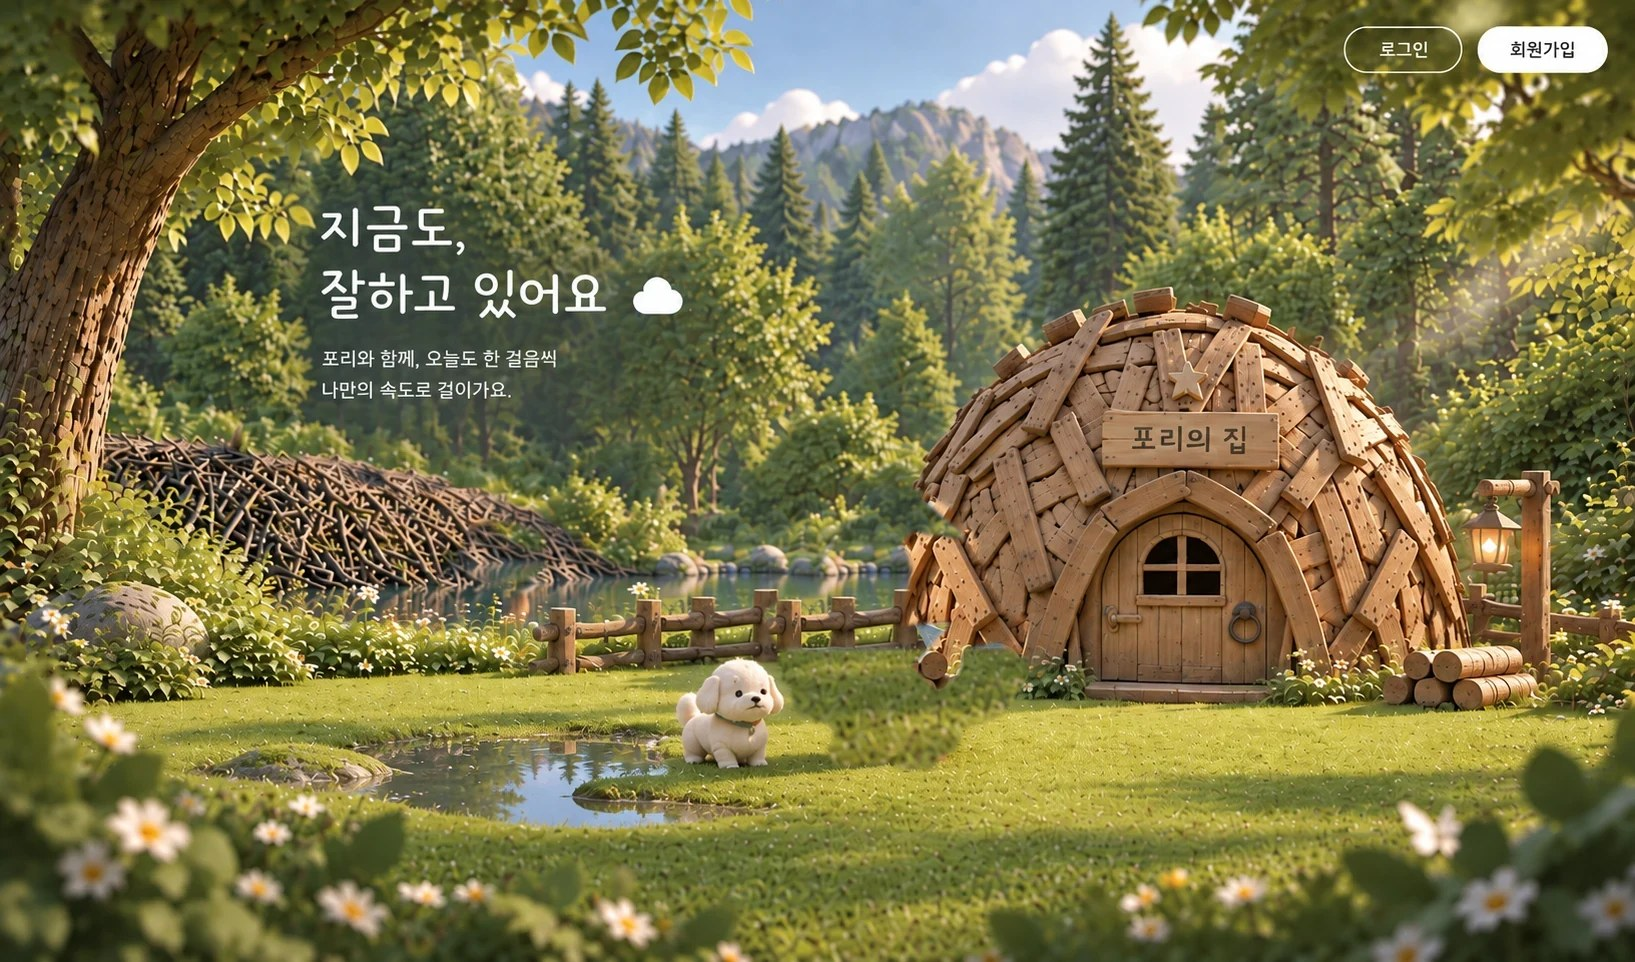
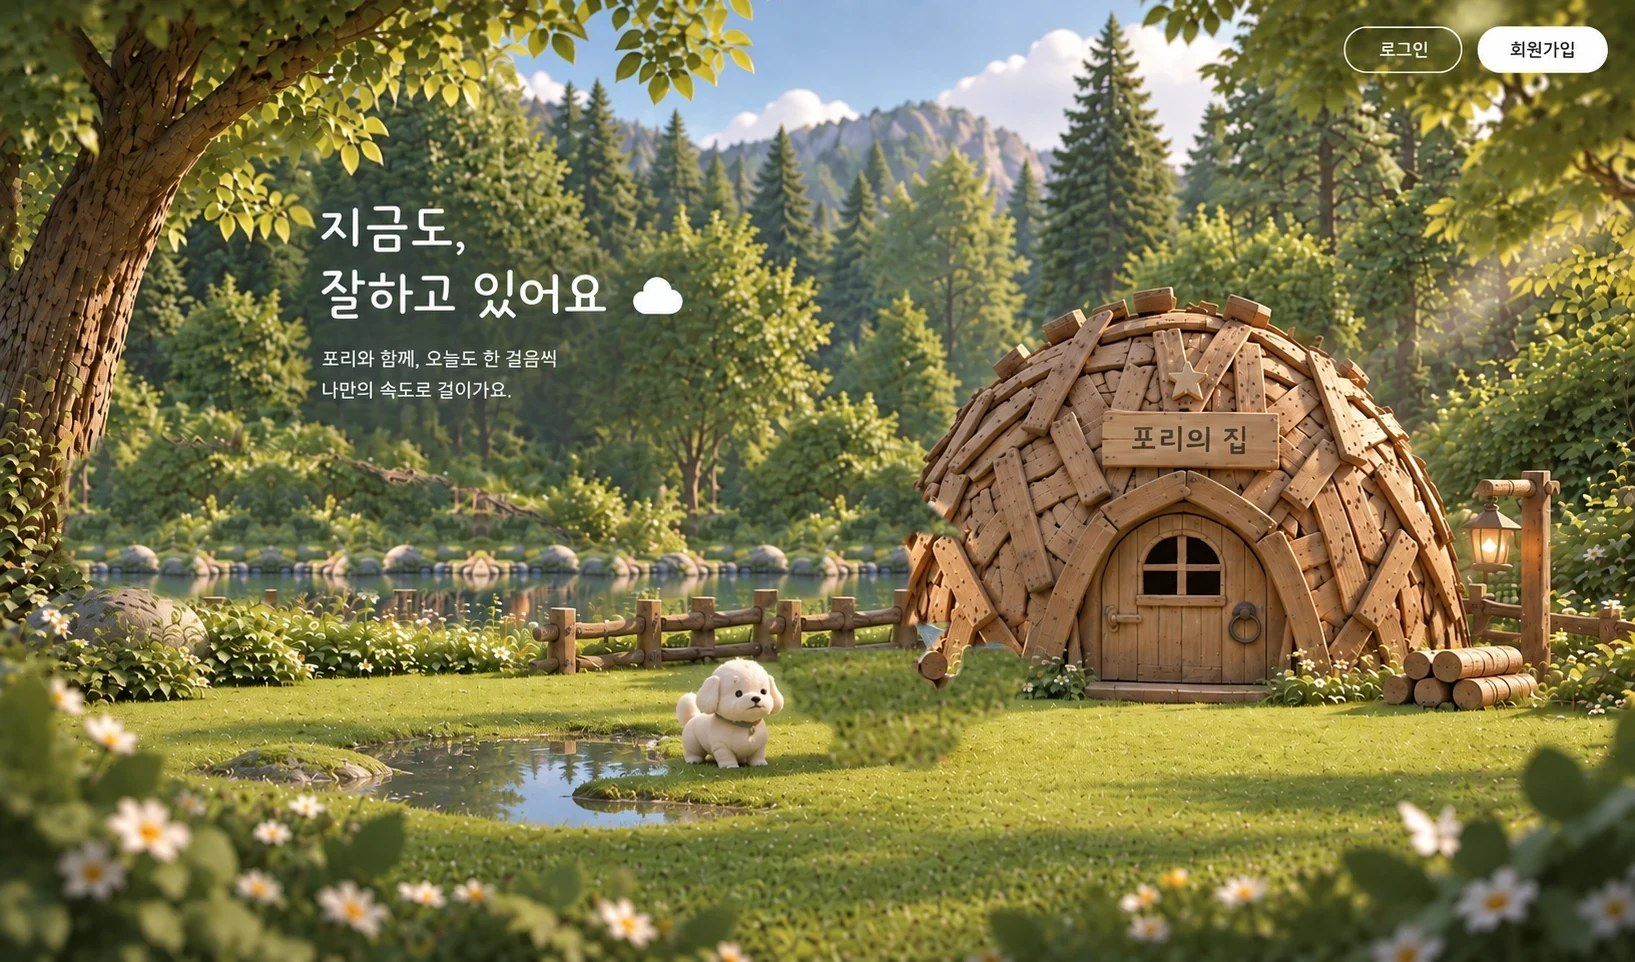
feat: 댐을 상태에 따라 바꾼다 — 목표를 정하면 나뭇가지 더미가 댐이 된다
목표를 정하기 전에는 나뭇가지 더미, 정하고 나면 댐이 완성돼 있다.
계획이 서면 댐이 지어진다는 이야기가 화면에 그대로 드러난다.

  body[data-goal="n"] → dam_branch.png
  body[data-goal="y"] → dam_built.png

data-goal 은 이미 메인 스크립트가 세팅하고 있어 따로 붙일 것이 없었다.
핫스팟 실루엣과 비버 자리도 상태마다 다시 잡는다 — 댐 모양이 달라지면
클릭 범위도 달라지고, 비버가 능선 밖에 떠 있게 된다.

배경
  두 댐을 갈아끼우려면 3D 댐을 배경에서 지워야 한다. 세로 보간으로 메웠더니
  세로 얼룩이 남았다. 대신 댐 오른쪽의 깨끗한 물가(x 690~900)를 거울
  타일링해 댐 폭만큼 이어 붙였다. 바위가 반복되는 티는 있으나 물가가
  자연스럽게 이어진다.

자리
  처음에는 원래 댐 자리(left 5.4%)에 뒀는데 두 가지가 문제였다.
   · 무대가 오른쪽 정렬이라 화면이 좁으면 왼쪽이 잘린다 — 댐이 잘려 나갔다
   · 바닥을 63~64.5% 에 뒀더니 물가가 아니라 잔디 위에 얹혀 보였다
  left 7.5%, 바닥 61.5% 로 옮겨 물가에 앉혔다. 높이는 배경에 구워진
  부제 텍스트(y 33~41%)를 넘지 않도록 잡았다.

에셋
  나무 댐.svg 8.4MB(1,628패스) → 70KB, 댐.svg 1.8MB(201패스) → 17KB.
  둘 다 VTracer 로 비트맵을 추적한 것이라 벡터의 이점이 없다.

호버
  댐이 배경 그림에 없으므로 강조를 이 레이어에 건다. 핫스팟 자신의
  '배경 밝히기'는 끈다 — 켜두면 댐 없는 배경만 밝아진다.

Changed region(s): [[0.0312, 0.4366, 0.4055, 0.6549]]

diff --git a/public/css/scene.css b/public/css/scene.css
@@ -109,14 +109,6 @@ body.show-map .label{opacity:1;transform:translateY(0)}
 /* 카피 블록 — 제목 두 줄 + 설명 두 줄. 설명이 더 짧아 ㄱ자다 */
 .h-copy   {clip-path:polygon(18.8% 19.5%, 44.5% 19.5%, 44.5% 32%, 36% 32%, 36% 41.5%, 18.8% 41.5%)}
 
-/* 댐 — 나뭇가지 더미 */
-.h-dam   {clip-path:polygon(4.59% 48.65%, 4.22% 56.55%, 6.24% 60.50%, 8.38% 60.29%, 11.01% 62.16%, 15.35%
-             61.64%, 17.13% 62.37%, 19.02% 60.29%, 20.06% 61.23%, 20.67% 60.40%,
-             22.81% 61.12%, 35.05% 60.08%, 38.65% 61.02%, 40.61% 59.67%, 38.96%
-             58.21%, 34.19% 56.86%, 32.48% 54.26%, 30.52% 54.78%, 28.93% 52.18%,
-             26.61% 50.52%, 23.73% 51.14%, 21.22% 48.54%, 18.96% 48.44%, 17.80%
-             47.19%, 17.19% 47.82%, 11.13% 46.88%, 8.44% 45.32%, 6.36% 46.15%, 5.87%
-             47.92%)}
 /* 물웅덩이 */
 .h-puddle{clip-path:polygon(22.75% 82.12%, 23.36% 83.16%, 24.22% 82.74%, 25.32% 83.99%, 28.75% 84.51%, 30.89%
              85.55%, 38.84% 85.65%, 39.20% 85.03%, 38.90% 84.30%, 36.94% 84.51%,
@@ -230,9 +222,9 @@ body.show-map .label{opacity:1;transform:translateY(0)}
   78%     {transform:translateY(-.8%) rotate(-.4deg) scaleY(1.02)}
 }
 /* 셋이 같은 박자로 움직이면 기계처럼 보인다 — 주기와 시작점을 어긋나게 둔다 */
-.fauna .f-bvr1{animation:bvrIdle 4.1s ease-in-out infinite}
-.fauna .f-bvr2{animation:bvrIdle 5.3s ease-in-out infinite -1.7s}
-.fauna .f-bvr3{animation:bvrIdle 4.7s ease-in-out infinite -3.1s}
+.fauna .f-bvr1{left:13.48%;top:38.03%;width:4.04%;height:6.76%}
+.fauna .f-bvr2{left:20.98%;top:39.50%;width:4.04%;height:6.03%}
+.fauna .f-bvr3{left:26.12%;top:42.19%;width:4.77%;height:6.55%}
 
 /* 강아지 — 배경에 원본이 그대로 있어 '커지는' 움직임만 준다 */
 @keyframes breathe{
@@ -318,6 +310,51 @@ body.show-map .label{opacity:1;transform:translateY(0)}
 }
 /* 포리는 밝아진 '정지한 포리'가 위에 덮이면 숨쉬기가 멈춘 것처럼 보인다 */
 .h-pori:hover,.h-pori:focus-visible{opacity:0;filter:none}
+
+/* ───────────────────────── 댐 — 두 가지 상태 ─────────────────────────
+   목표를 정하기 전에는 나뭇가지 더미, 정하고 나면 댐이 완성돼 있다.
+   배경 그림에서는 지워 두고 여기서만 그린다. 그래야 갈아끼울 수 있다.
+   핫스팟(z 10)보다 아래, 배경(z auto)보다 위. 비버(z 12)는 댐 위에 앉는다. */
+.scenery{position:absolute;inset:0;pointer-events:none;z-index:5}
+.scenery .dam{position:absolute;display:block}
+.scenery .dam-branch{left:7.46%;top:40.85%;width:27.95%;height:20.58%}
+.scenery .dam-built {left:7.46%;top:40.64%;width:23.98%;height:20.79%}
+body[data-goal="y"] .dam-branch{display:none}
+body:not([data-goal="y"]) .dam-built{display:none}
+
+/* 댐 실루엣도 상태마다 다르다 */
+.h-dam{clip-path:polygon(7.46% 44.28%, 7.77% 45.22%, 7.46% 47.82%, 8.01% 49.38%, 9.24% 49.38%, 10.03% 51.56%,
+         10.83% 51.04%, 11.50% 52.81%, 11.31% 53.85%, 12.23% 54.37%, 12.78% 53.33%, 13.64%
+         54.57%, 15.11% 54.68%, 15.11% 55.72%, 14.01% 55.61%, 14.50% 57.38%, 16.27% 57.69%,
+         16.88% 59.04%, 18.17% 58.52%, 18.35% 59.25%, 17.80% 59.98%, 18.53% 61.23%, 19.63%
+         59.67%, 20.06% 60.50%, 21.04% 59.88%, 21.16% 60.91%, 22.08% 61.33%, 22.57% 61.02%,
+         22.32% 59.98%, 22.69% 59.56%, 23.06% 60.29%, 23.85% 59.46%, 24.46% 59.98%, 25.32%
+         59.46%, 25.93% 60.19%, 26.48% 58.42%, 27.22% 59.36%, 27.71% 58.52%, 28.62% 59.46%,
+         30.46% 59.77%, 30.58% 58.63%, 31.62% 58.63%, 31.99% 57.90%, 33.27% 58.32%, 34.62%
+         57.28%, 35.35% 55.41%, 34.62% 51.56%, 31.99% 48.44%, 29.48% 48.65%, 29.17% 46.57%,
+         28.01% 47.71%, 26.91% 46.36%, 25.63% 46.99%, 24.83% 45.22%, 24.04% 45.43%, 23.30%
+         43.97%, 21.22% 44.70%, 20.12% 43.35%, 19.51% 43.66%, 19.27% 42.62%, 18.84% 43.87%,
+         17.43% 43.04%, 16.64% 44.28%, 15.54% 43.14%, 14.07% 43.35%, 13.46% 42.31%, 12.42%
+         42.83%, 11.93% 42.00%, 11.31% 42.41%, 10.40% 41.48%, 9.60% 42.00%, 9.05% 40.85%, 8.20%
+         41.79%, 8.13% 43.24%)}
+body[data-goal="y"] .h-dam{clip-path:polygon(7.46% 41.16%, 7.46% 43.76%, 7.95% 44.18%, 7.95% 61.33%, 15.90% 61.33%, 17.31% 60.40%,
+         20.73% 59.98%, 22.14% 59.25%, 31.38% 57.17%, 27.65% 48.54%, 27.83% 44.80%, 11.74%
+         40.64%)}
+
+/* 댐은 배경 그림에 없으므로 호버 강조를 이 레이어에 건다 */
+.h-dam:hover,.h-dam:focus-visible{opacity:0;filter:none}
+.h-dam:hover ~ .scenery .dam,
+.h-dam:focus-visible ~ .scenery .dam{
+  filter:brightness(1.16) saturate(1.12) drop-shadow(0 0 9px rgba(255,255,255,.85))
+}
+
+/* 비버는 댐 능선에 앉는다 — 댐이 바뀌면 자리도 옮긴다 */
+.fauna .f-bvr1{left:13.48%;top:38.03%;width:4.04%;height:6.76%}
+.fauna .f-bvr2{left:20.98%;top:39.50%;width:4.04%;height:6.03%}
+.fauna .f-bvr3{left:26.12%;top:42.19%;width:4.77%;height:6.55%}
+body[data-goal="y"] .fauna .f-bvr1{left:9.98%;top:35.36%;width:4.04%;height:6.76%}
+body[data-goal="y"] .fauna .f-bvr2{left:15.98%;top:37.47%;width:4.04%;height:6.03%}
+body[data-goal="y"] .fauna .f-bvr3{left:22.12%;top:38.74%;width:4.77%;height:6.55%}
 
 /* ───────────────────── 로그인 상태 덮개 ─────────────────────
    그림에 '로그인 / 회원가입'이 그려져 있다. 로그인한 사람에게는

diff --git a/public/index.html b/public/index.html
@@ -43,6 +43,14 @@
       <button class="hotspot h-dam" data-key="dam" aria-label="실행 로드맵으로 이동"></button>
       <div class="label t-dam">실행 로드맵 · STEP 5</div>
 
+      <!-- 댐은 상태에 따라 바뀐다. 목표가 정해지면 나뭇가지 더미가 댐이 된다.
+           배경 그림에서는 지워져 있고 여기서만 그린다.
+           .h-dam 뒤에 있어야 형제 선택자(~)로 호버를 받는다. -->
+      <div class="scenery" aria-hidden="true">
+        <img class="dam dam-branch" src="./img/dam_branch.png" alt="">
+        <img class="dam dam-built"  src="./img/dam_built.png"  alt="">
+      </div>
+
 
       <!-- ── 물웅덩이 → 기능 설명 ──────────────────────────── -->
       <button class="hotspot h-puddle" data-key="puddle" aria-label="기능 설명 보기"></button>
@@ -75,12 +83,9 @@
            비버 셋과 포리는 배경에서 지워져 있어 자유롭게 움직일 수 있고,
            강아지는 제자리에 겹쳐 두어 커지기만 한다(원본을 늘 덮는다). -->
       <div class="fauna" aria-hidden="true">
-        <img class="f f-bvr1" src="./img/bvr1.png" alt=""
-             style="left:14.74%;top:42.00%;width:4.04%;height:6.76%">
-        <img class="f f-bvr2" src="./img/bvr2.png" alt=""
-             style="left:23.49%;top:45.43%;width:4.04%;height:6.03%">
-        <img class="f f-bvr3" src="./img/bvr3.png" alt=""
-             style="left:28.50%;top:54.26%;width:4.77%;height:6.55%">
+        <img class="f f-bvr1" src="./img/bvr1.png" alt="">
+        <img class="f f-bvr2" src="./img/bvr2.png" alt="">
+        <img class="f f-bvr3" src="./img/bvr3.png" alt="">
         <img class="f f-dog" src="./img/dog.png" alt=""
              style="left:41.22%;top:68.09%;width:6.85%;height:11.95%">
         <img class="f f-pori" src="./img/pori.png" alt=""
